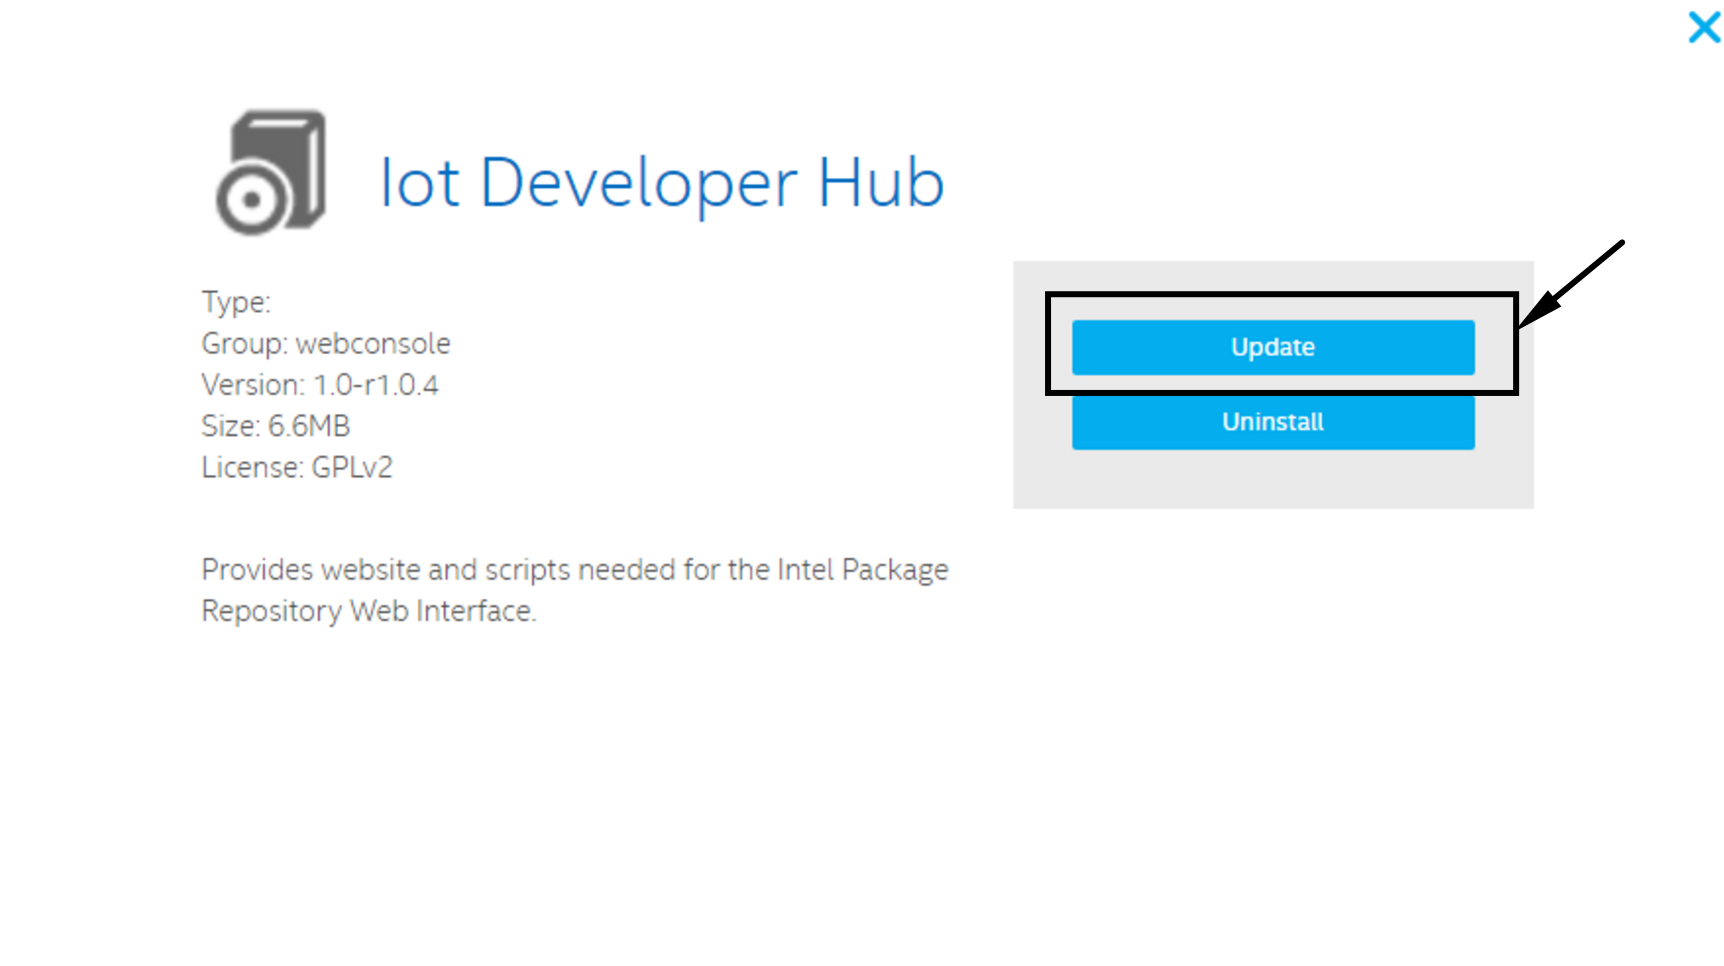
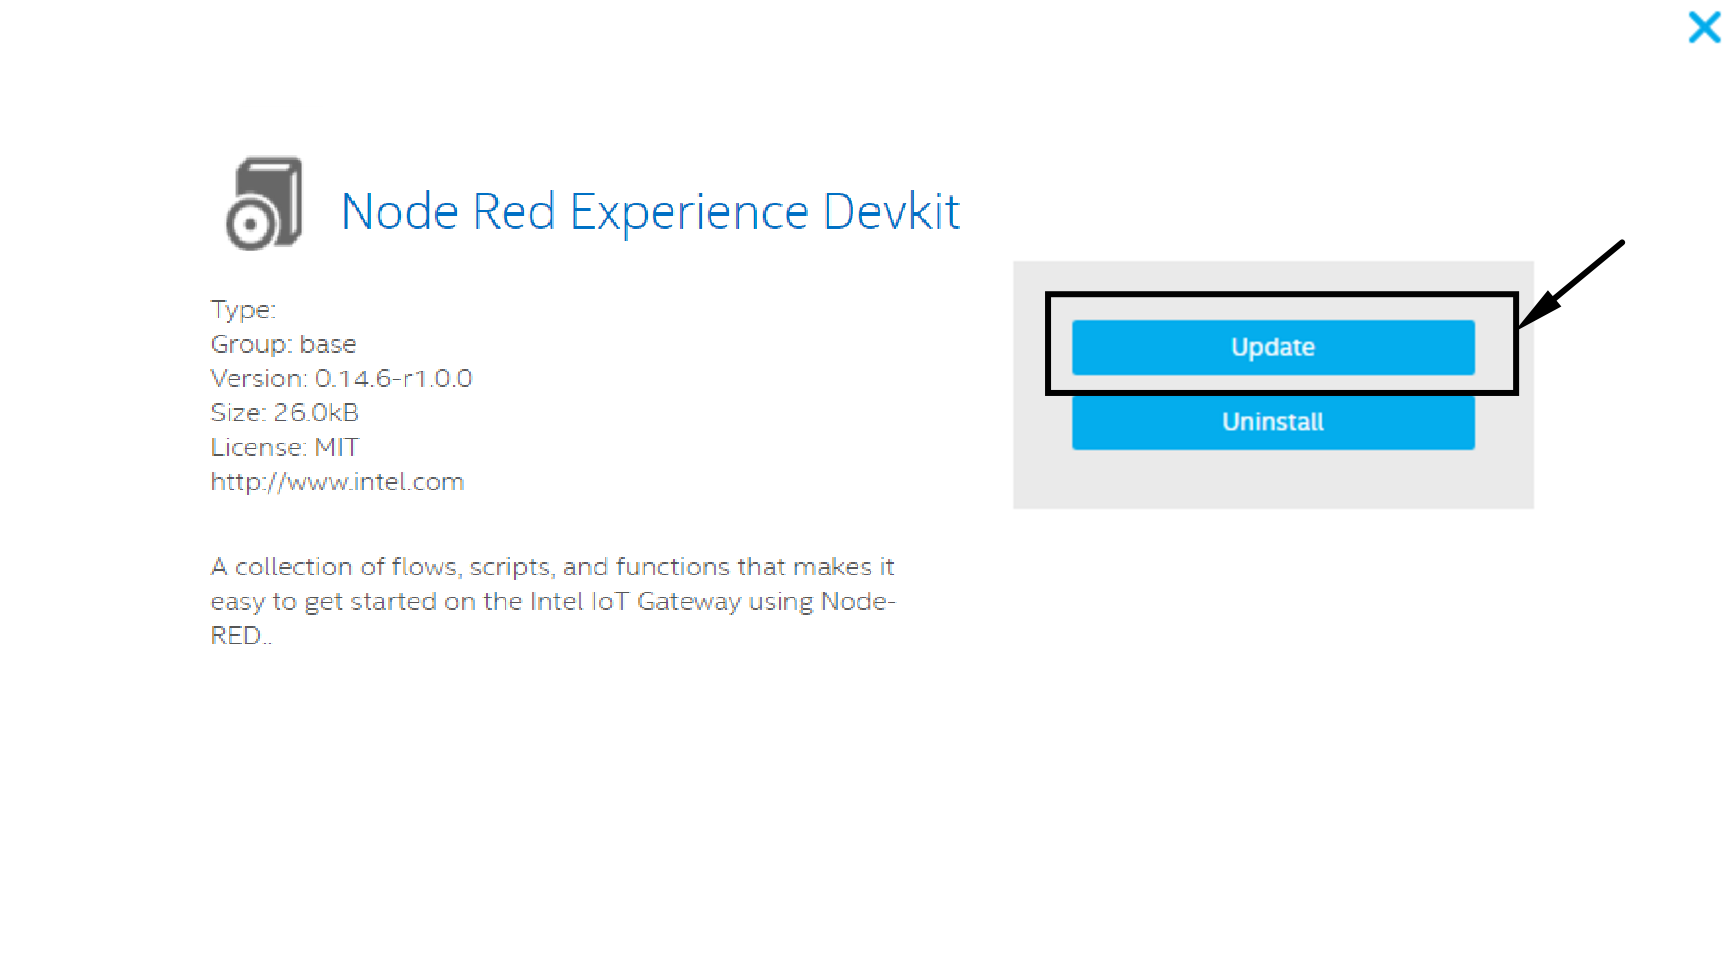
Added  instruction to update Node red devkit experience
Also moved package management before sensor management

Changed region(s): [[0.123, 0.0932, 0.5534, 0.528], [0.123, 0.559, 0.5534, 0.6832]]

diff --git a/app/views/labs/dev-hub/index.html b/app/views/labs/dev-hub/index.html
@@ -179,6 +179,53 @@ develop your apps. When development is complete, you can save a hardened OS imag
 
                 </div>
 
+<!--   Package Management ---->
+              <div ibox title="Package Management">
+
+                  <div content-block name="package-management-overview" message="Package Management Overview" image-link="./views/labs/dev-hub/images/17.png">
+                      <h2 class="labHidden">Package Management Overview</h2>
+                      <h4>Package Management Overview </h4>
+                      <p>As periodic updates are released, it is important to ensure that you are keeping your gateway development environment up to date.</p>
+                      <p>  The Developer Hub interface provides an easy mechanism to perform these package updates. </p>
+                  </div>
+
+                  <div content-block name="list-packages" message="List Packages" image-link="./views/labs/dev-hub/images/18.png">
+                      <h2 class="labHidden">List Packages</h2>
+                      <h4>List Packages </h4>
+                      <p>The update indicator in the top right corner shows the number of updates needs to be installed.</p>
+                      <p>Before clicking to update, it is important that you first update the Developer Hub itself.</p>
+                      <p>This will ensure that the Developer Hub has the latest code to deal with the rest of the updates since it is performing the updates. </p>
+                  </div>
+
+                  <div content-block name="update-repositories" message="Update Repositories" image-link="./views/labs/dev-hub/images/19.png">
+                      <h2 class="labHidden">Update Repositories</h2>
+                      <h4>Update Repositories </h4>
+                      <p>Click on the <b>Add Repo</b> button. It will ensure we that all latest packages to be updated. Intel_Repository will be located by default.</p>
+                        <p>Click on the <b>Update Repositories</b> button.</p>
+                        <p>After a minute or so, the button text will change to Updated.</p>
+                        <p>Now close the window and there will be updated list of packages under the packages tab.</p>
+                  </div>
+
+                  <div content-block name="update-node-red-experience-devkit-package" message="Update Node Red Experience Devkit Package " image-link="./views/labs/dev-hub/images/20.png">
+                      <h2 class="labHidden">Update Node Red Experience Devkit Package</h2>
+                      <h4>Update Node Red Experience Devkit Package </h4>
+                      <p>Now click on <b>node-red-experience-devkit</b> package from the list and a new screen will allow you to update or uninstall that package.</p>
+                        <p>Proceed to update the node-red-experience-devkit package. </p>
+                          <p>Click on <b>Update</b> button</p>
+                        <p>As the dialog box indicates, this will take a few minutes. It has to download the package update from the internet and install it.</p>
+                  </div>
+
+                  <div content-block name="update-all-packages" message="Update all packages" image-link="./views/labs/dev-hub/images/21.png">
+                      <h2 class="labHidden">Package Management Overview</h2>
+                      <h4>Package Management Overview [Optional Step]</h4>
+                      <p class="alert alert-warning">This is optional step as updating all the packages will be time-consuming and also depends on the bandwidth available. </p>
+                      <p>It is ready to update the rest of the packages. To do this, click on the <b>Install Updates</b> button under the packages tab.</p>
+                      <p>It will update the rest of the packages in one action. </p>
+
+                  </div>
+
+              </div>
+
 <!--   Sensor Management ---->
               <div ibox title="Sensor Management">
 
@@ -329,54 +376,7 @@ develop your apps. When development is complete, you can save a hardened OS imag
 
               </div>
 
-<!--   Package Management ---->
-              <div ibox title="Package Management">
 
-                  <div content-block name="package-management-overview" message="Package Management Overview" image-link="./views/labs/dev-hub/images/17.png">
-                      <h2 class="labHidden">Package Management Overview</h2>
-                      <h4>Package Management Overview </h4>
-                      <p>As periodic updates are released, it is important to ensure that you are keeping your gateway development environment up to date.</p>
-                      <p>  The Developer Hub interface provides an easy mechanism to perform these package updates. </p>
-                  </div>
-
-                  <div content-block name="list-packages" message="List Packages" image-link="./views/labs/dev-hub/images/18.png">
-                      <h2 class="labHidden">List Packages</h2>
-                      <h4>List Packages </h4>
-                      <p>The update indicator in the top right corner shows the number of updates needs to be installed.</p>
-                      <p>Before clicking to update, it is important that you first update the Developer Hub itself.</p>
-                      <p>This will ensure that the Developer Hub has the latest code to deal with the rest of the updates since it is performing the updates. </p>
-                  </div>
-
-                  <div content-block name="update-repositories" message="Update Repositories" image-link="./views/labs/dev-hub/images/19.png">
-                      <h2 class="labHidden">Update Repositories</h2>
-                      <h4>Update Repositories </h4>
-                      <p>Click on the <b>Add Repo</b> button. It will ensure we that all latest packages to be updated. Intel_Repository will be located by default.</p>
-                        <p>Click on the <b>Update Repositories</b> button.</p>
-                        <p>After a minute or so, the button text will change to Updated.</p>
-                        <p>Now close the window and there will be updated list of packages under the packages tab.</p>
-                  </div>
-
-                  <div content-block name="update-dev-hub-package" message="Update Developer Hub Package" image-link="./views/labs/dev-hub/images/20.png">
-                      <h2 class="labHidden">Update Developer Hub Package</h2>
-                      <h4>Update Developer Hub Package </h4>
-                      <p>Now click on <b>iot-developer-hub</b> package from the list and a new screen will allow you to update or uninstall that package.</p>
-                        <p>Proceed to update the iot-developer-hub package. </p>
-                          <p>Click on <b>Update</b> button</p>
-                        <p>As the dialog box indicates, this will take a few minutes. It has to download the package update from the internet and install it (which restarts the Developer Hub Interface).</p>
-                        <p>This all takes some time, but once it is finished, you can refresh the browser tab pointing to the gateway IP address and see the Developer Hub up and running again.</p>
-                        <p>If required, log in again to developer hub and click on Packages tab.
-                  </div>
-
-                  <div content-block name="update-all-packages" message="Update all packages" image-link="./views/labs/dev-hub/images/21.png">
-                      <h2 class="labHidden">Package Management Overview</h2>
-                      <h4>Package Management Overview </h4>
-                      <p class="alert alert-warning">This is optional step as updating all the packages will be time-consuming and also depends on the bandwidth available. </p>
-                      <p>It is ready to update the rest of the packages. To do this, click on the <b>Install Updates</b> button under the packages tab.</p>
-                      <p>It will update the rest of the packages in one action. </p>
-
-                  </div>
-
-              </div>
 
   <!---   Gateway Administration Tools and Resources ---->
               <div ibox title="Gateway Administrative Tools and Resources">
